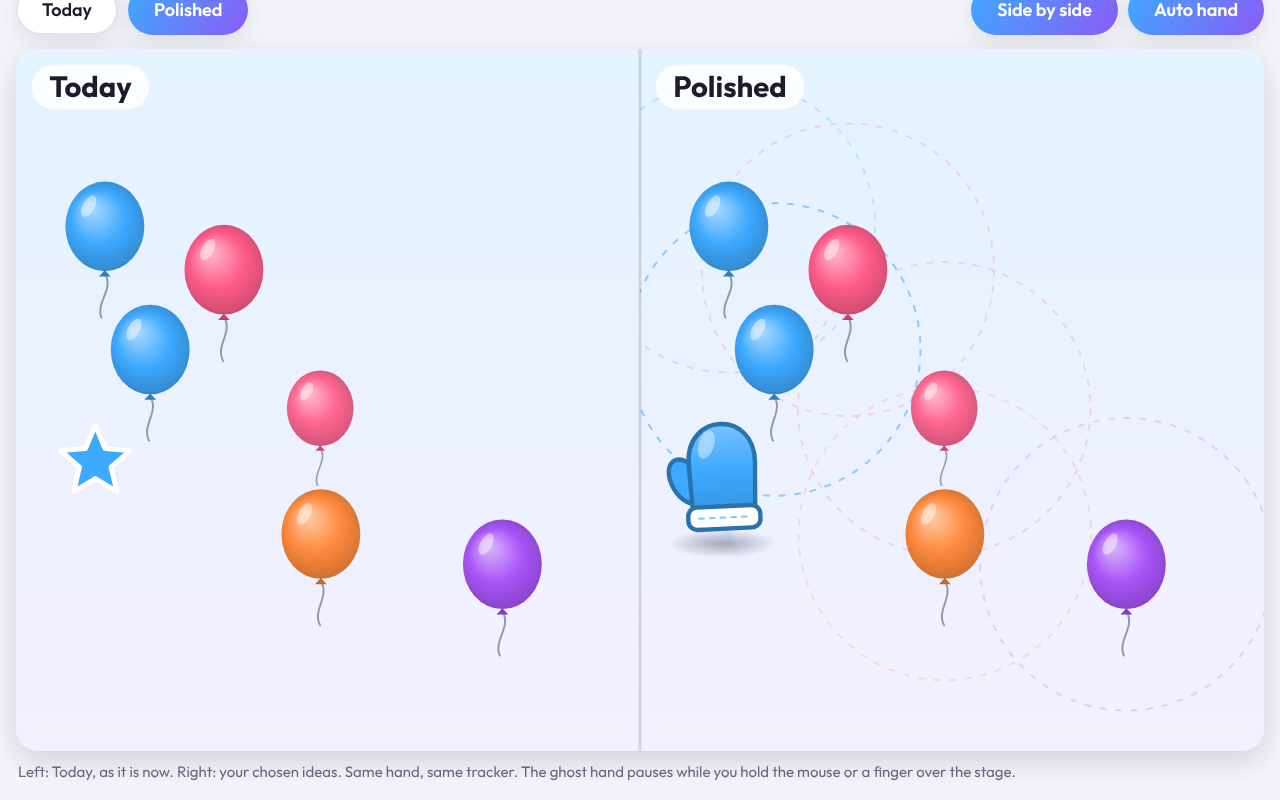
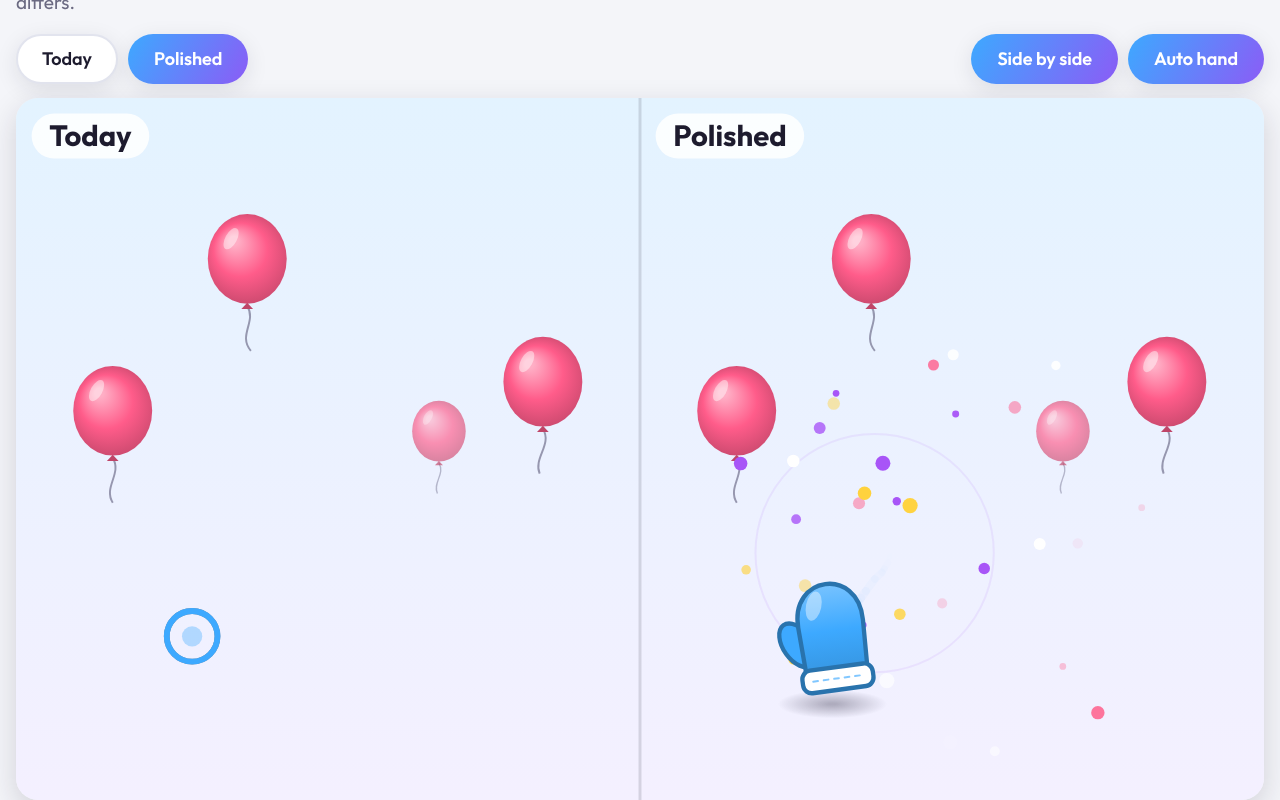
Hand Feel Lab: today's marker is the app's ring; show only the nearest pull circle
Claude-Session: https://claude.ai/code/session_01H7pxTnxTukKeeYRVqvmnkU

diff --git a/docs/hand-feel-demo.html b/docs/hand-feel-demo.html
@@ -181,15 +181,12 @@ function playWhoosh(k) {
 
 /* ---------- hand drawings ---------- */
 function drawStar(c, x, y) {
-  c.save(); c.translate(x, y);
-  c.beginPath();
-  for (let i = 0; i < 10; i++) {
-    const r = i % 2 ? 17 : 37.5, a = -Math.PI / 2 + i * Math.PI / 5;
-    c[i ? 'lineTo' : 'moveTo'](Math.cos(a) * r, Math.sin(a) * r);
-  }
-  c.closePath(); c.lineJoin = 'round';
-  c.fillStyle = PLAYER; c.fill();
-  c.lineWidth = 5; c.strokeStyle = '#fff'; c.stroke();
+  /* today's marker, as app/src/ui/cursor.js draws it: a ring in the player colour with a faint dot */
+  const rad = 26;
+  c.save(); c.lineWidth = 6;
+  c.strokeStyle = 'rgba(0,0,0,.45)'; c.beginPath(); c.arc(x, y, rad, 0, 6.2832); c.stroke();
+  c.strokeStyle = PLAYER; c.beginPath(); c.arc(x, y, rad, 0, 6.2832); c.stroke();
+  c.fillStyle = PLAYER; c.globalAlpha = .35; c.beginPath(); c.arc(x, y, rad * 0.4, 0, 6.2832); c.fill();
   c.restore();
 }
 function drawMitt(c, x, y, tilt, sx, sy, shadowK) {
@@ -347,11 +344,8 @@ class Scene {
     /* pull radius, faint */
     if (o.pull) {
       c.save(); c.setLineDash([7, 9]); c.lineWidth = 2;
-      for (const g of this.targets) {
-        const on = this.pullNear === g;
-        c.strokeStyle = rgba(g.col, on ? 0.55 : 0.22);
-        c.beginPath(); c.arc(g.x, g.y, params.pullR, 0, 6.2832); c.stroke();
-      }
+      const g = this.pullNear;
+      if (g) { c.strokeStyle = rgba(g.col, 0.45); c.beginPath(); c.arc(g.x, g.y, params.pullR, 0, 6.2832); c.stroke(); }
       c.restore();
     }
     /* targets */
@@ -522,7 +516,7 @@ function frame(ms) {
 /* ---------- controls ---------- */
 const IDEAS = [
   { k: 'smooth', name: 'Smoothing', line: 'A One Euro filter: steady when your hand rests, quick when it moves fast.', cost: 'free', cap: 'A few sums per frame, shared by every game.' },
-  { k: 'mitt', name: 'Mitt', line: 'A big friendly mitten in your colour, with a soft shadow, that leans into its motion.', cost: 'free', cap: 'One shared drawing routine replaces the star.' },
+  { k: 'mitt', name: 'Mitt', line: 'A big friendly mitten in your colour, with a soft shadow, that leans into its motion.', cost: 'free', cap: 'One shared drawing routine replaces the ring.' },
   { k: 'trail', name: 'Trail', line: 'A short fading ribbon behind fast movement only.', cost: 'free', cap: 'Only needs how fast the hand moves.' },
   { k: 'impact', name: 'Impact', line: 'On a pop: squash and stretch, sparks, a ring wave and a tiny freeze.', cost: 'work', cap: 'Each game must say when and where something pops.' },
   { k: 'pull', name: 'Pull', line: 'Near a target, the drawn hand eases toward it. The real hit stays honest.', cost: 'work', cap: 'Each game must list where its targets are.' },
